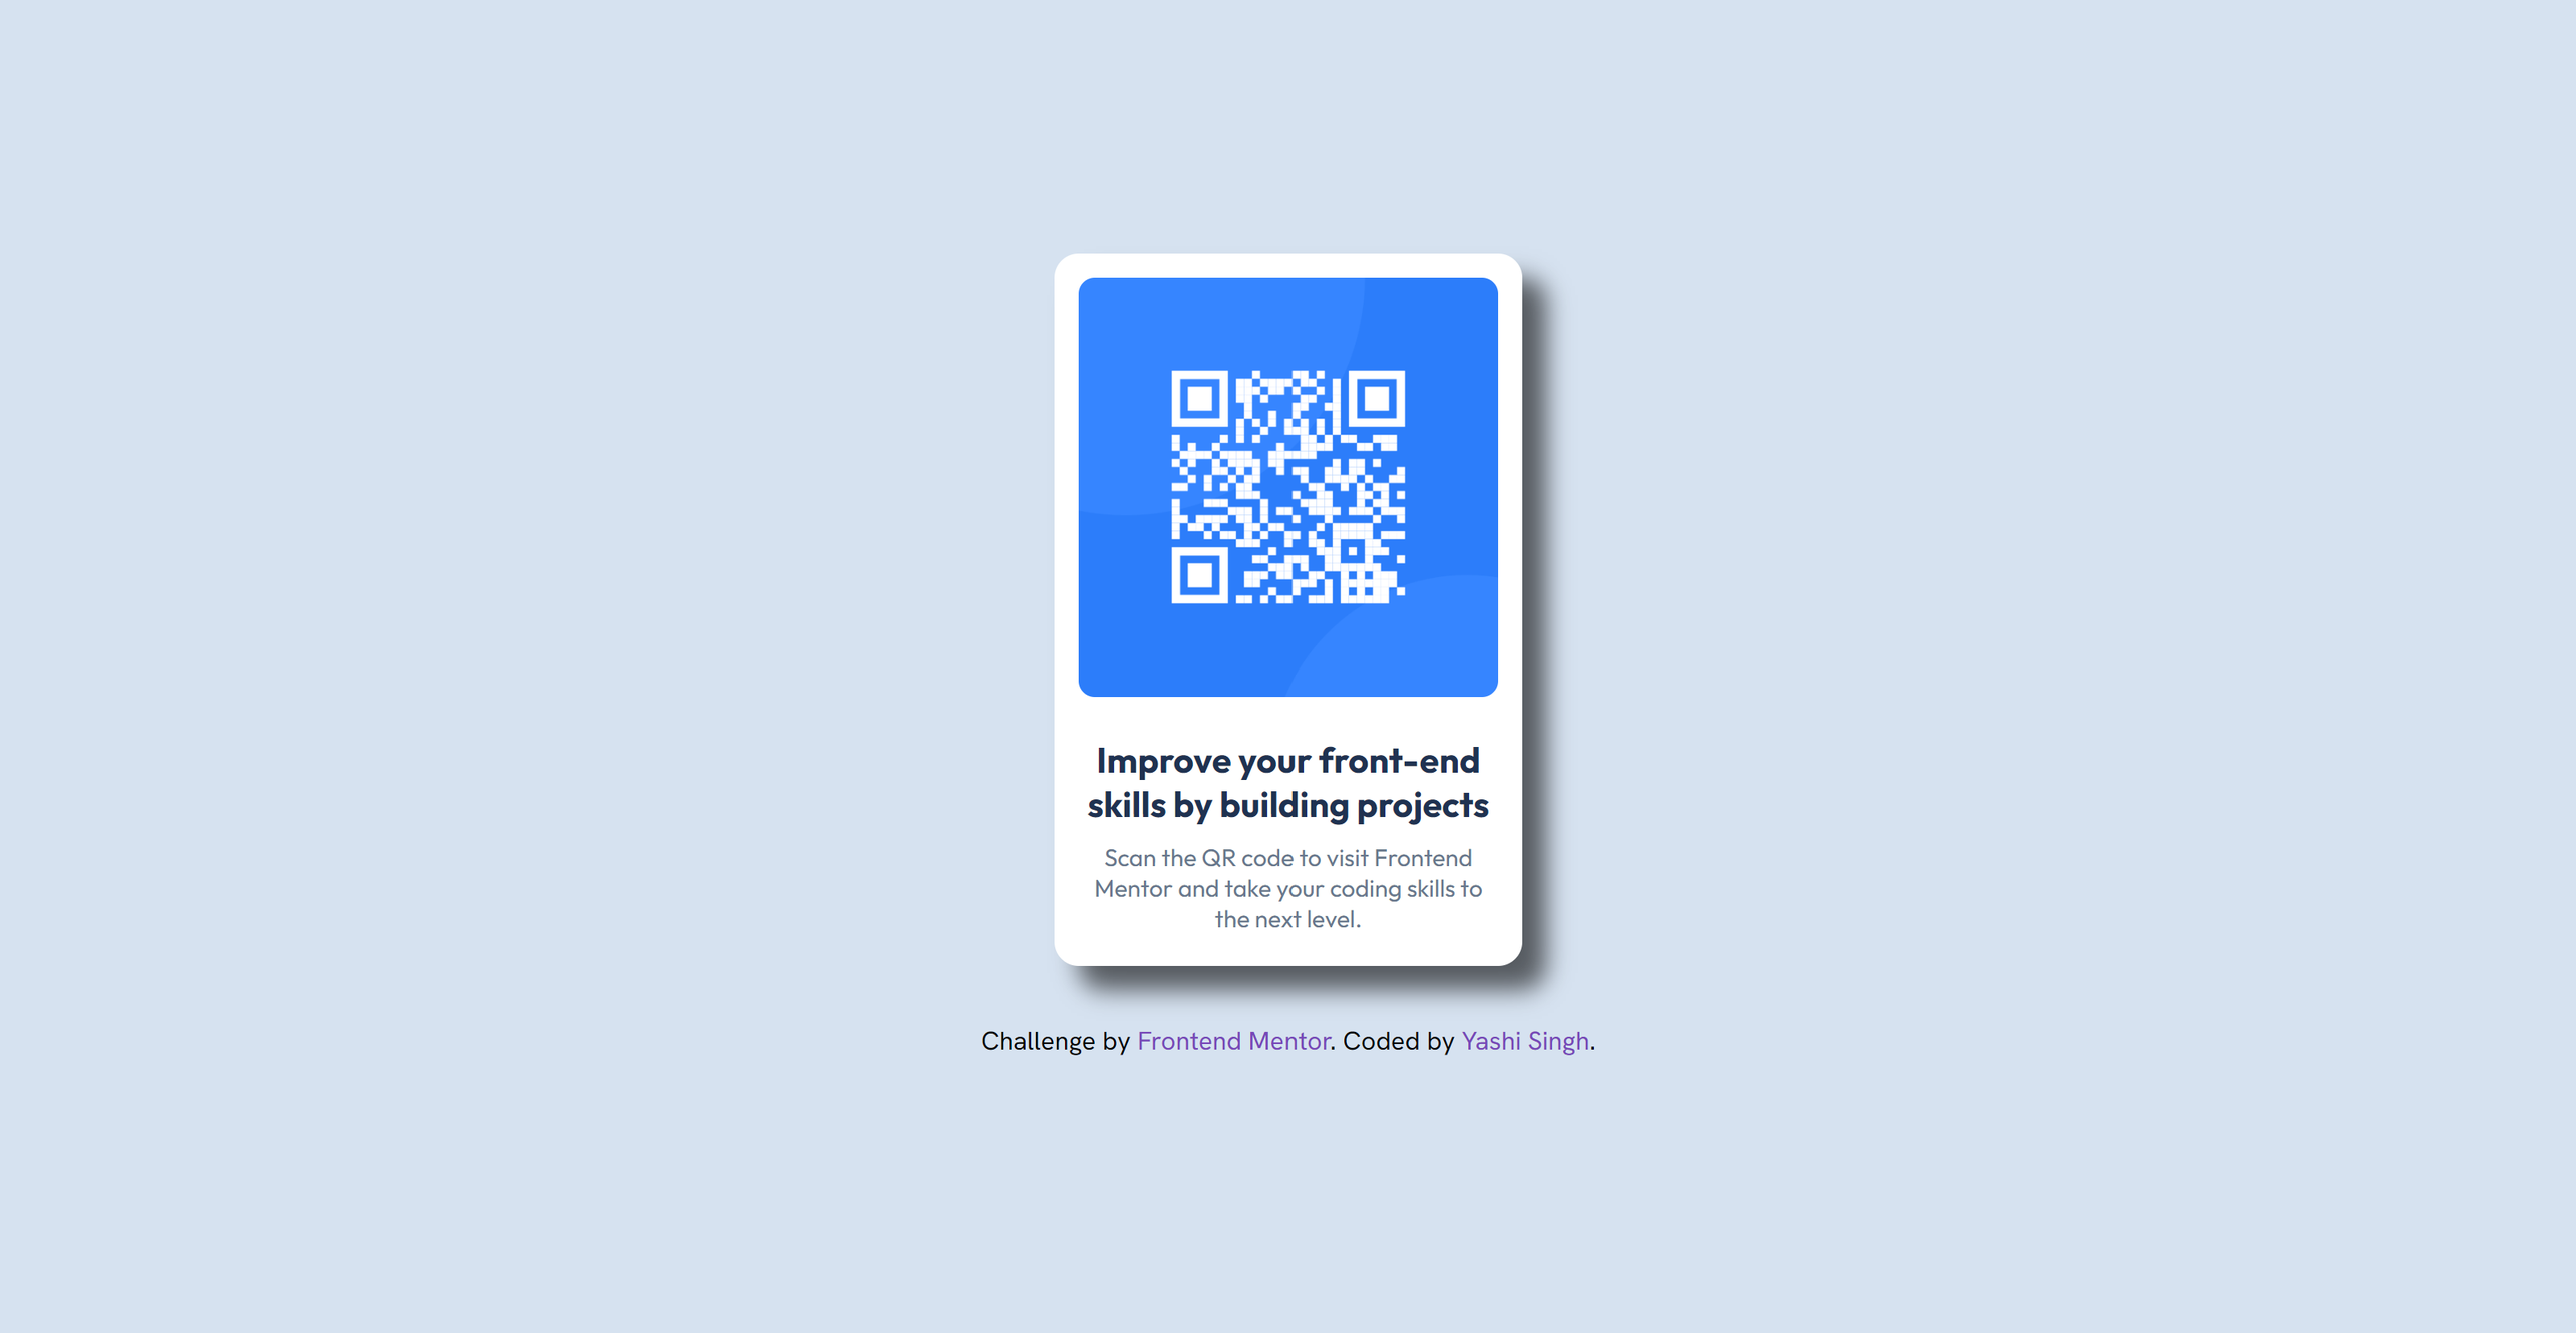
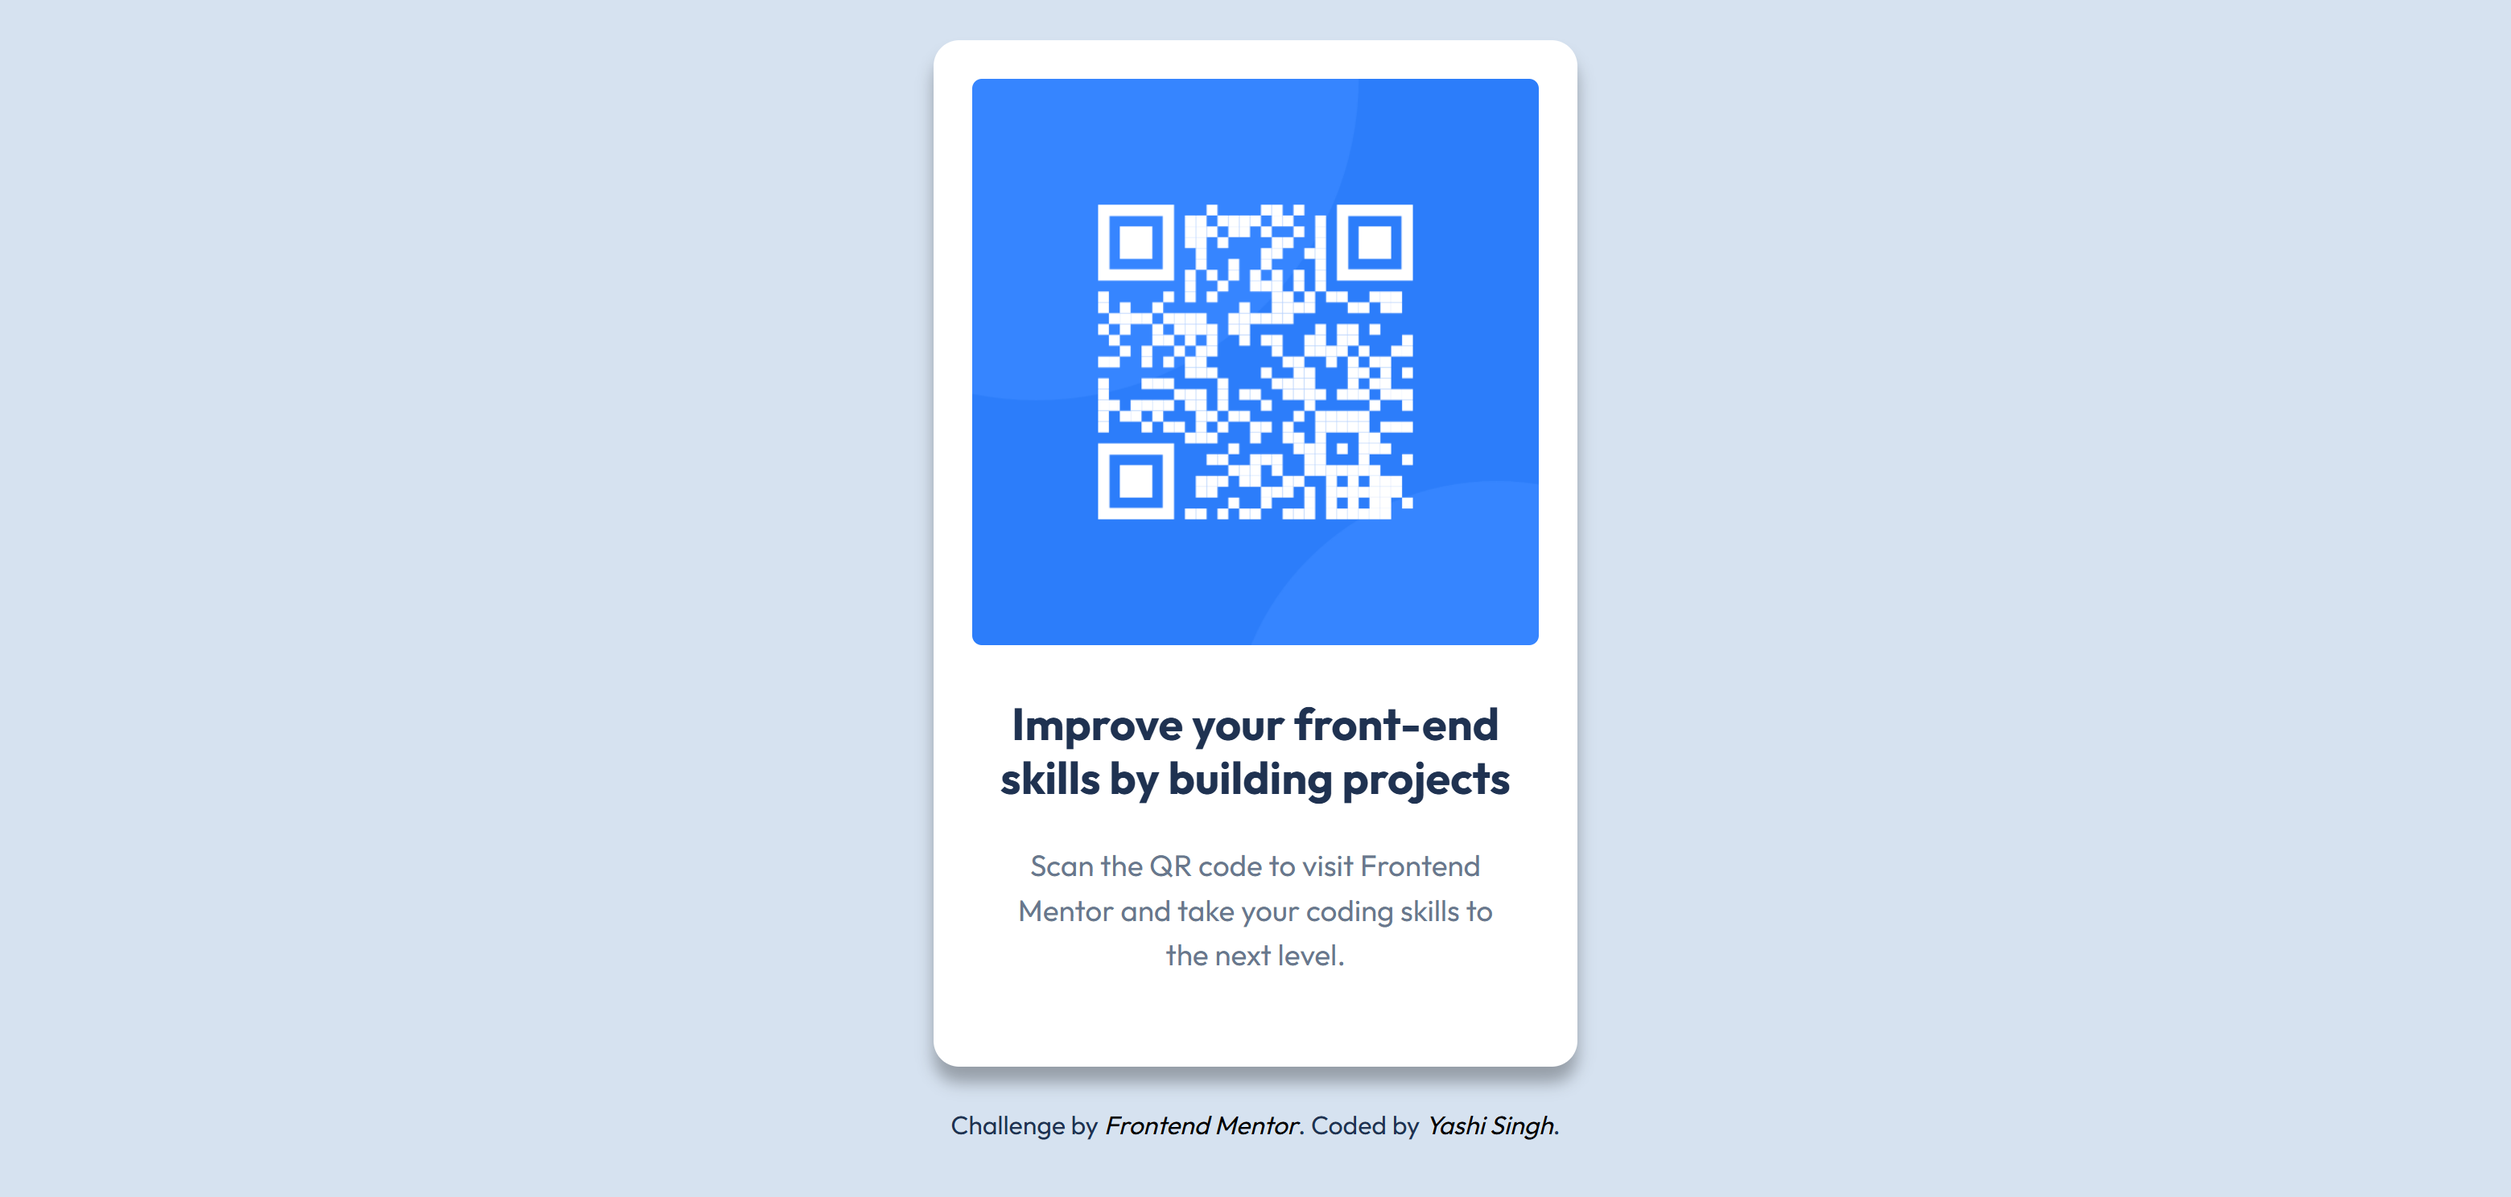
Refactor: Redone using HTML, SCSS, and Bootstrap

Changed region(s): [[0.3731, 0.0309, 0.6529, 0.9583]]

diff --git a/styles.css b/styles.css
@@ -1,97 +1,43 @@
-@import url('https://fonts.googleapis.com/css2?family=Hanken+Grotesk:ital,wght@0,100..900;1,100..900&family=Outfit:wght@100..900&display=swap');
-
+@import url("https://fonts.googleapis.com/css2?family=Outfit:wght@400;700&display=swap");
 * {
-    margin: 0;
-    padding: 0;
-    box-sizing: border-box;
+  margin: 0;
+  padding: 0;
+  box-sizing: border-box;
 }
 
 body {
-    background-color: var(--slate-300);
-    height: 103vh;
-    margin: 0;
-    display: flex;
-    flex-direction: column;
-    justify-content: center;
-    align-items: center;
-    font-family: 'Outfit', sans-serif;
-}
-
-:root {
-    --white: hsl(0, 0%, 100%);
-    --slate-300: hsl(212, 45%, 89%);
-    --slate-500: hsl(216, 15%, 48%);
-    --slate-900: hsl(218, 44%, 22%);
+  font-family: "Outfit", sans-serif;
+  font-weight: 400;
+  font-size: 1rem;
+  background-color: hsl(212, 45%, 89%);
+  height: 100vh;
 }
 
 .frame {
+  max-width: 400px;
+  width: 100%;
+  background-color: hsl(0, 0%, 100%);
+  box-shadow: 0 10px 10px rgba(0, 0, 0, 0.3);
+}
+@media (max-width: 425px) {
+  .frame {
     width: 90%;
-    max-width: 300px;
-    background-color: var(--white);
-    box-shadow: 10px 10px 10px rgba(0, 0, 0, 0.3);
-    border-radius: 15px;
-    overflow: hidden;
-    display: flex;
-    flex-direction: column;
-    margin-bottom: 20px; 
+  }
 }
-
-header {
-    display: flex;
-    justify-content: center;
-    align-items: center;
-    padding: 15px;
+.frame .description h3 {
+  font-weight: 700;
+  color: hsl(218, 44%, 22%);
 }
-
-header img {
-    max-width: 100%;
-    height: auto;
-    border-radius: 10px;
-    object-fit: cover;
-}
-
-.description {
-    padding: 10px;
-    text-align: center;
-}
-
-.description h1 {
-    font-size: 22px;
-    color: var(--slate-900);
-    font-weight: 700;
-}
-
-.description .description-text {
-    font-size: 15px;
-    color: var(--slate-500);
-    padding: 10px;
+.frame .description p {
+  color: hsl(216, 15%, 48%);
+  font-size: 1.15rem;
 }
 
 footer {
-    text-align: center;
-    padding: 16px; /* Adjusted padding for consistency */
-    width: 100%;
+  color: hsl(218, 44%, 22%);
 }
-
-footer .footer {
-    font-size: 16px;
-    font-family: "Hanken Grotesk", sans-serif;
-}
-
-.footer a {
-    color: hsl(265, 44%, 50%);
-    text-decoration: none;
-    cursor: pointer;
-}
-
-@media (min-width: 768px) {
-    footer .footer {
-        font-size: 14px; /* Larger font size for larger screens */
-    }
-}
-
-@media (min-width: 1024px) {
-    footer .footer {
-        font-size: 16px; /* Larger font size for even larger screens */
-    }
-}
+footer a,
+footer a:visited {
+  color: black;
+  font-style: italic;
+}/*# sourceMappingURL=styles.css.map */

diff --git a/index.html b/index.html
@@ -4,21 +4,23 @@
     <meta charset="UTF-8">
     <meta name="viewport" content="width=device-width, initial-scale=1.0">
     <meta name="description" content="Improve your front-end skills with hands-on projects by visiting Frontend Mentor. Scan the QR code to learn more." />
+
+    <link href="https://cdn.jsdelivr.net/npm/bootstrap@5.3.3/dist/css/bootstrap.min.css" rel="stylesheet" integrity="sha384-QWTKZyjpPEjISv5WaRU9OFeRpok6YctnYmDr5pNlyT2bRjXh0JMhjY6hW+ALEwIH" crossorigin="anonymous"> <!-- Bootstrap Link -->    
+    <link rel="stylesheet" href="styles.css"> <!-- CSS Link -->
+    <link rel="shortcut icon" href="images/favicon-32x32.png" type="image/x-icon"> <!-- Icon -->
+
     <title>QR Code Component</title>
-    <link rel="stylesheet" href="styles.css">
 </head>
-<body>
-    <main class="frame">
-        <header>
-            <img src="images/image-qr-code.png" alt="QR code leading to Frontend Mentor website" />
-        </header>
-        <section class="description">
-            <h1>Improve your front-end skills by building projects</h1>
-            <p class="description-text">Scan the QR code to visit Frontend Mentor and take your coding skills to the next level.</p>
+<body class="d-flex flex-column align-items-center justify-content-center">
+    <main class="frame d-flex flex-column p-4 mb-3 rounded-4">
+        <img src="images/image-qr-code.png" alt="QR code leading to Frontend Mentor website" class="object-fit-cover rounded-2 mb-3" />
+        <section class="description p-3 text-center">
+            <h3>Improve your front-end skills by building projects</h3>
+            <p class="description-text mt-4">Scan the QR code to visit Frontend Mentor and take your coding skills to the next level.</p>
         </section>
     </main>
-    <footer>
-        <p class="footer">Challenge by <a href="https://www.frontendmentor.io/challenges/qr-code-component-iux_sIO_H" target="_blank" rel="noopener noreferrer" aria-label="Frontend Mentor website">Frontend Mentor</a>. Coded by <a href="https://www.linkedin.com/in/yashi-singh-b4143a246" aria-label="Yashi Singh's LinkedIn profile">Yashi Singh</a>.</p>
+    <footer class="text-center p-2">
+        Challenge by <a href="https://www.frontendmentor.io/challenges/qr-code-component-iux_sIO_H" target="_blank" class="text-decoration-none">Frontend Mentor</a>. Coded by <a href="https://www.linkedin.com/in/yashi-singh-b4143a246" class="text-decoration-none">Yashi Singh</a>.
     </footer>
 </body>
 </html>

diff --git a/styles.scss b/styles.scss
@@ -1,0 +1,53 @@
+@import url("https://fonts.googleapis.com/css2?family=Outfit:wght@400;700&display=swap");
+
+$white: hsl(0, 0%, 100%);
+$slate-300: hsl(212, 45%, 89%);
+$slate-500: hsl(216, 15%, 48%);
+$slate-900: hsl(218, 44%, 22%);
+
+*{
+    margin: 0;
+    padding: 0;
+    box-sizing: border-box;
+}
+
+body{
+    font-family: 'Outfit', sans-serif;
+    font-weight: 400; 
+    font-size: 1rem;
+    background-color: $slate-300;
+    height: 100vh;
+}
+
+.frame{
+    max-width: 400px;
+    width: 100%;
+    background-color: $white;
+    box-shadow: 0 10px 10px rgba(0, 0, 0, 0.3);
+
+    @media (max-width: 425px) {
+        width: 90%;
+    }
+    
+    .description{
+        h3{
+            font-weight: 700;
+            color: $slate-900;
+        }
+
+        p{
+            color: $slate-500;
+            font-size: 1.15rem;
+        }
+    }
+}
+
+footer{
+    color: $slate-900;
+
+    a,
+    a:visited{
+        color: darken($slate-500, 50%);
+        font-style: italic;
+    }
+}

diff --git a/README.md b/README.md
@@ -1,84 +1,109 @@
 # Frontend Mentor - QR Code Component Solution
 
-## Description
+## Overview
 
-This project is a simple and elegant QR Code Component challenge provided by [Frontend Mentor](https://www.frontendmentor.io/challenges/qr-code-component-iux_sIO_H). It is a responsive webpage that displays a QR code, which links to the Frontend Mentor website. The purpose of this challenge is to enhance front-end development skills by building a straightforward yet visually appealing UI component.
+✨✨✨ This project is a solution to the [QR Code Component Challenge](https://www.frontendmentor.io/challenges/qr-code-component-iux_sIO_H) from Frontend Mentor. It features a responsive webpage showcasing a simple yet elegant QR code design, linking to the Frontend Mentor website. The primary goal of this challenge is to improve front-end development skills by creating a visually appealing and accessible UI component. ✨✨✨
 
 ## Live Demo
 
-You can view the **live demo** of this project [here](https://qr-code-component-by-yashi.netlify.app/).
+✨✨✨ View the **live demo** of the project here: [QR Code Component](https://yashi-singh-9.github.io/QR-Code-Component/) ✨✨✨
 
-## Badges
+## Features
 
-![Github](https://img.shields.io/badge/github-project-blue) ![Frontend Mentor](https://img.shields.io/badge/frontend--mentor-challenge-yellow)
-[![Netlify Status](https://api.netlify.com/api/v1/badges/16e57516-733c-4d71-8b04-4107bc317285/deploy-status)](https://app.netlify.com/sites/qr-code-component-by-yashi/deploys)
-![MIT License](https://img.shields.io/badge/license-MIT-green)
-![Last Commit](https://img.shields.io/github/last-commit/Yashi-Singh-9/QR-Code-Component)
+- **Responsive Design:** Fully responsive layout optimized for both desktop and mobile devices.
+- **Clean Code:** Built with semantic HTML5, SCSS, and Bootstrap for maintainability and modularity.
+- **Typography:** Integrated Google Fonts for professional and modern typography.
+- **Custom Styling:** SCSS variables and mixins are used for reusable styles and easy theme management.
+
+## Technologies Used
+
+✨✨✨ - **HTML5:** For structuring the content.
+- **SCSS:** For enhanced and modular styling.
+- **Bootstrap:** For quick and responsive layout design. ✨✨✨
 
 ## Visuals
 
-Here is a preview of the QR Code Component:
+✨✨✨ Below are previews of the project design: ✨✨✨
 
-![QR Code Component](images/Desktop-Preview.png)
+### Desktop Preview
+![Desktop Preview](images/Desktop-Preview.png)
 
-![QR Code Component](images/Mobile-Preview.png)
+### Mobile Preview
+![Mobile Preview](images/Mobile-Preview.png)
 
-## Installation
+## How to Run Locally
 
-To run this project locally, follow these steps:
+✨✨✨ Follow these steps to set up the project on your local machine: ✨✨✨
 
-1. Clone the repository:
-
+1. **Clone the Repository:**
     ```bash
     git clone https://github.com/Yashi-Singh-9/QR-Code-Component.git
     ```
 
-2. Navigate to the project directory:
-
+2. **Navigate to the Project Directory:**
     ```bash
     cd QR-Code-Component
     ```
 
-3. Open the `index.html` file in your browser:
-
+3. **Open the Project in a Browser:**
     ```bash
     open index.html
     ```
 
+## Folder Structure
+
+✨✨✨
+
+```
+QR-Code-Component/
+|-- images/           # Images used in the project
+|-- styles.scss       # SCSS file for custom styling
+|-- styles.css        # Compiled CSS file
+|-- index.html        # HTML structure
+|-- README.md         # Project documentation
+``` 
+
+✨✨✨
+
 ## Usage
 
-The QR Code Component is a static webpage. Simply open the `index.html` file in any modern web browser, and you'll see the QR code that links to the Frontend Mentor website. This component can be embedded into other projects or used as a standalone page.
-
-## Support
-
-If you have any questions or run into any issues, feel free to reach out:
-
-- [Frontend Mentor Challenge](https://www.frontendmentor.io/challenges/qr-code-component-iux_sIO_H)
-- [Yashi Singh's LinkedIn](https://www.linkedin.com/in/yashi-singh-b4143a246)
+✨✨✨ The QR Code Component is a static webpage that can be used as a standalone UI component or embedded into larger projects. Simply open the `index.html` file in any modern browser to view the component. ✨✨✨
 
 ## Roadmap
 
-Currently, this project is complete as per the challenge requirements. However, future enhancements could include:
+✨✨✨ Potential future improvements include: ✨✨✨
 
-- Adding animations to the QR code.
-- Enhancing the design with additional styling or visual effects.
-- Making the component interactive by adding JavaScript functionality.
+- Adding hover and focus effects to make the component more interactive.
+- Including animations for the QR code to enhance user engagement.
+- Extending the design with a dark mode toggle.
 
 ## Contributing
 
-Contributions are welcome! If you'd like to improve this project, feel free to fork the repository and submit a pull request. Here’s how you can do it:
+✨✨✨ Contributions are welcome! Here’s how you can contribute: ✨✨✨
 
-1. Fork the repository.
-2. Create a new branch for your feature (`git checkout -b feature-branch`).
-3. Make your modifications and commit them (`git commit -m 'Add a new feature'`).
-4. Push to the branch (`git push origin feature-branch`).
-5. Open a pull request to the main branch.
+1. **Fork the Repository:**
+2. **Create a Feature Branch:**
+    ```bash
+    git checkout -b feature-name
+    ```
+3. **Make Changes:** Commit your updates with a clear description.
+4. **Push Changes:**
+    ```bash
+    git push origin feature-name
+    ```
+5. **Submit a Pull Request:** Open a pull request to the main branch.
 
-## Authors and Acknowledgment
+## Acknowledgments
 
-- **Author:** Yashi Singh
-- **Acknowledgment:** Special thanks to [Frontend Mentor](https://www.frontendmentor.io) for providing this challenge and resources to improve front-end development skills.
+✨✨✨ 
+- **Challenge by:** [Frontend Mentor](https://www.frontendmentor.io)
+- **Coded by:** [Yashi Singh](https://www.linkedin.com/in/yashi-singh-b4143a246) 
+✨✨✨
 
 ## License
 
-This project is licensed under the MIT License - see the [LICENSE](LICENSE) file for details.
+✨✨✨ This project is licensed under the MIT License. See the [LICENSE](LICENSE) file for more information. ✨✨✨
+
+---
+
+✨✨✨ Thank you for checking out my solution! Feel free to share your feedback or ask any questions. ✨✨✨
